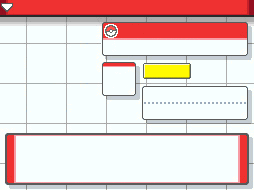
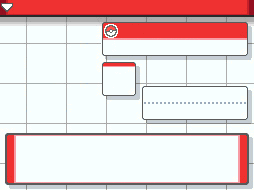
Pokemon Types implemented, added Type assets

Changed region(s): [[0.5512, 0.3158, 0.7717, 0.4211]]

diff --git a/RNProject/src/components/GridProfileHeader.js b/RNProject/src/components/GridProfileHeader.js
@@ -6,6 +6,83 @@ import img_ProfileBackground from "assets/grid/profile/grid_BackgroundProfile.pn
 
 import sty_GridProfileH from "styles/GridProfileHeaderStyle";
 
+import Normal from "assets/types/Normal.png";
+import Fighting from "assets/types/Fighting.png";
+import Flying from "assets/types/Flying.png";
+import Poison from "assets/types/Poison.png";
+import Ground from "assets/types/Ground.png";
+import Rock from "assets/types/Rock.png";
+import Bug from "assets/types/Bug.png";
+import Ghost from "assets/types/Ghost.png";
+import Steel from "assets/types/Steel.png";
+import Fire from "assets/types/Fire.png";
+import Water from "assets/types/Water.png";
+import Grass from "assets/types/Grass.png";
+import Electric from "assets/types/Electric.png";
+import Psychic from "assets/types/Psychic.png";
+import Ice from "assets/types/Ice.png";
+import Dragon from "assets/types/Dragon.png";
+import Dark from "assets/types/Dark.png";
+
+const displayType = (typeInput) => {
+  console.log(typeInput);
+  switch (typeInput) {
+    case "Normal":
+      return Normal;
+
+    case "Fighting":
+      return Fighting;
+
+    case "Flying":
+      return Flying;
+
+    case "Poison":
+      return Poison;
+
+    case "Ground":
+      return Ground;
+
+    case "Rock":
+      return Rock;
+
+    case "Bug":
+      return Bug;
+
+    case "Ghost":
+      return Ghost;
+
+    case "Steel":
+      return Steel;
+
+    case "Fire":
+      return Fire;
+
+    case "Water":
+      return Water;
+
+    case "Grass":
+      return Grass;
+
+    case "Electric":
+      return Electric;
+
+    case "Psychic":
+      return Psychic;
+
+    case "Ice":
+      return Ice;
+
+    case "Dragon":
+      return Dragon;
+
+    case "Dark":
+      return Dark;
+
+    default:
+      return null;
+  }
+};
+
 export default class GridProfileHeader extends Component {
   render() {
     const {
@@ -64,15 +141,26 @@ export default class GridProfileHeader extends Component {
 
               <View style={sty_GridProfileH.righthalfFooter}>
                 <View style={sty_GridProfileH.typeContainer}>
+                  <View style={sty_GridProfileH.typeCtnL}></View>
                   <View style={sty_GridProfileH.typeOne}>
-                    <View style={{ flex: 9 }}></View>
-                    <View style={{ flex: 1, backgroundColor: "blue" }}></View>
+                    <View style={sty_GridProfileH.typeOneImgCtn}>
+                      <View style={sty_GridProfileH.typeOneT}></View>
+                      <ImageBackground
+                        style={sty_GridProfileH.typeImgCtn}
+                        source={displayType(pkmn.type1)}
+                      ></ImageBackground>
+                    </View>
+                    <View style={sty_GridProfileH.typeOneR}></View>
                   </View>
                   <View style={sty_GridProfileH.typeTwo}>
-                    <View style={{ flex: 1, backgroundColor: "red" }}></View>
-                    <View
-                      style={{ flex: 0.25, backgroundColor: "purple" }}
-                    ></View>
+                    <View style={sty_GridProfileH.typeTwoImgCtn}>
+                      <View style={sty_GridProfileH.typeTwoT}></View>
+                      <ImageBackground
+                        style={sty_GridProfileH.typeImgCtn}
+                        source={displayType(pkmn.type2)}
+                      ></ImageBackground>
+                    </View>
+                    <View style={sty_GridProfileH.typeTwoR}></View>
                   </View>
                 </View>
                 <View style={sty_GridProfileH.hgtwgtContainer}>

diff --git a/RNProject/src/styles/GridProfileHeaderStyle.js b/RNProject/src/styles/GridProfileHeaderStyle.js
@@ -1,4 +1,4 @@
-import { StyleSheet } from 'react-native'
+import { StyleSheet } from "react-native";
 
 export default StyleSheet.create({
   /* Pokemon profiler, when the pokemon is selected for initial view on the grid, this profile will be populated
@@ -79,37 +79,37 @@ export default StyleSheet.create({
   },
   infoPokemon: {
     flex: 1,
-    flexDirection:'row',
-    justifyContent:'flex-end',
+    flexDirection: "row",
+    justifyContent: "flex-end",
   },
   footerMidCard: {
     flexDirection: "row",
     flex: 1,
   },
-  footprintMidCardCtn:{
-    flex:1
+  footprintMidCardCtn: {
+    flex: 1,
   },
   footprintContainer: {
-    flex:1,
-    flexDirection:'row'
+    flex: 1,
+    flexDirection: "row",
   },
   footprintContainerL: {
-    flex:0.55
+    flex: 0.55,
   },
   footprintContainerR: {
-    flex:1
+    flex: 1,
   },
   footprint: {
-    flex:3,
+    flex: 3,
     width: "100%",
     height: undefined,
     aspectRatio: 1 / 1,
   },
-  footprintContainerTop:{
-    flex:0.3,
+  footprintContainerTop: {
+    flex: 0.3,
   },
-  footprintContainerBtm:{
-    flex:1,
+  footprintContainerBtm: {
+    flex: 1,
   },
   righthalfFooter: {
     flex: 3,
@@ -119,40 +119,66 @@ export default StyleSheet.create({
     justifyContent: "center",
     flexDirection: "row",
   },
+  typeCtnL: {
+    flex: 0.05,
+  },
   typeOne: {
     flex: 1,
-    flexDirection:"row"
+    flexDirection: "row",
+  },
+  typeOneImgCtn: {
+    flex: 9,
+  },
+  typeOneT: {
+    flex: 0.5,
+  },
+  typeOneR: {
+    flex: 0.5,
   },
   typeTwo: {
+    flex: 1.2,
+    //backgroundColor: "yellow",
+    flexDirection: "row",
+  },
+  typeTwoImgCtn: {
     flex: 1,
-    backgroundColor: "yellow",
-    flexDirection:'row'
+  },
+  typeTwoR: {
+    flex: 0.25,
+  },
+  typeTwoT: {
+    flex: 0.5,
+  },
+  typeImgCtn: {
+    width: "100%",
+    height: undefined,
+    aspectRatio: 117 / 39,
   },
   hgtwgtContainer: {
     flex: 2,
   },
-  tophgtwgtContainer:{
-    flex:0.2, 
+  tophgtwgtContainer: {
+    flex: 0.2,
   },
   bottomhgtwgtContainer: {
-    flex:0.8
+    flex: 0.8,
   },
   hgt: {
     flex: 1,
-    flexDirection:'row',
+    flexDirection: "row",
   },
   wgt: {
     flex: 1,
-    flexDirection:'row',
+    flexDirection: "row",
   },
   hwTxtSpaceFront: {
-    flex:0.15
+    flex: 0.15,
   },
   hwStaticTextCtn: {
-    flex:0.5
+    flex: 0.5,
   },
   hwDynamicTextCtn: {
-    flex:1
+    flex: 1,
   },
   //Bottom of the profile, only contains a description of the pokemon
   footerContainer: {

diff --git a/RNProject/src/components/PokemonList.js b/RNProject/src/components/PokemonList.js
@@ -34,6 +34,8 @@ const beforeLoad = [
     wt: "",
     category: "",
     ftPrint: "",
+    type1: "",
+    type2: "",
   },
 ];
 const numColumns = 5;
@@ -88,6 +90,8 @@ export default class App extends Component {
         wt,
         category,
         ftPrint,
+        type1,
+        type2,
       } = res.data();
       testList.push({
         key: res.id,
@@ -100,6 +104,8 @@ export default class App extends Component {
         wt,
         category,
         ftPrint,
+        type1,
+        type2,
       });
     });
     this.setState({
@@ -199,7 +205,7 @@ export default class App extends Component {
         <View style={sty_BtmCtn.buttonSetContainer}>
           <View style={sty_BtmCtn.buttonSet}>
             <View style={{ flex: 1 }}>
-              <TouchableOpacity 
+              <TouchableOpacity
                 style={{ flex: 1 }}
                 onPress={() => navigate("Search")}
               >
